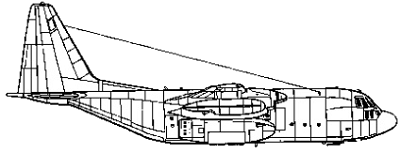
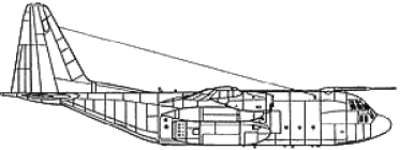
ac130 new sprite

diff --git a/shilka2/Aircrafts.cs b/shilka2/Aircrafts.cs
@@ -239,7 +239,7 @@ namespace shilka2
                 aircraftType = "ac130",
                 aircraftName = "AC-130 Spectre",
                 hitPoint = 120,
-                size = new int[] { 400, 154 },
+                size = new int[] { 400, 150 },
                 price = 190,
                 speed = 7,
                 minAltitude = minAltitudeForLargeAircraft,
@@ -248,9 +248,9 @@ namespace shilka2
                 elements = new List<DynamicElement> {
                     new DynamicElement {
                         elementName = "air_prop",
-                        y = 50,
-                        x_left = 105,
-                        x_right = 275,
+                        y = 56,
+                        x_left = 107,
+                        x_right = 270,
                         movingType = DynamicElement.MovingType.yRotate
                     }
                 }
